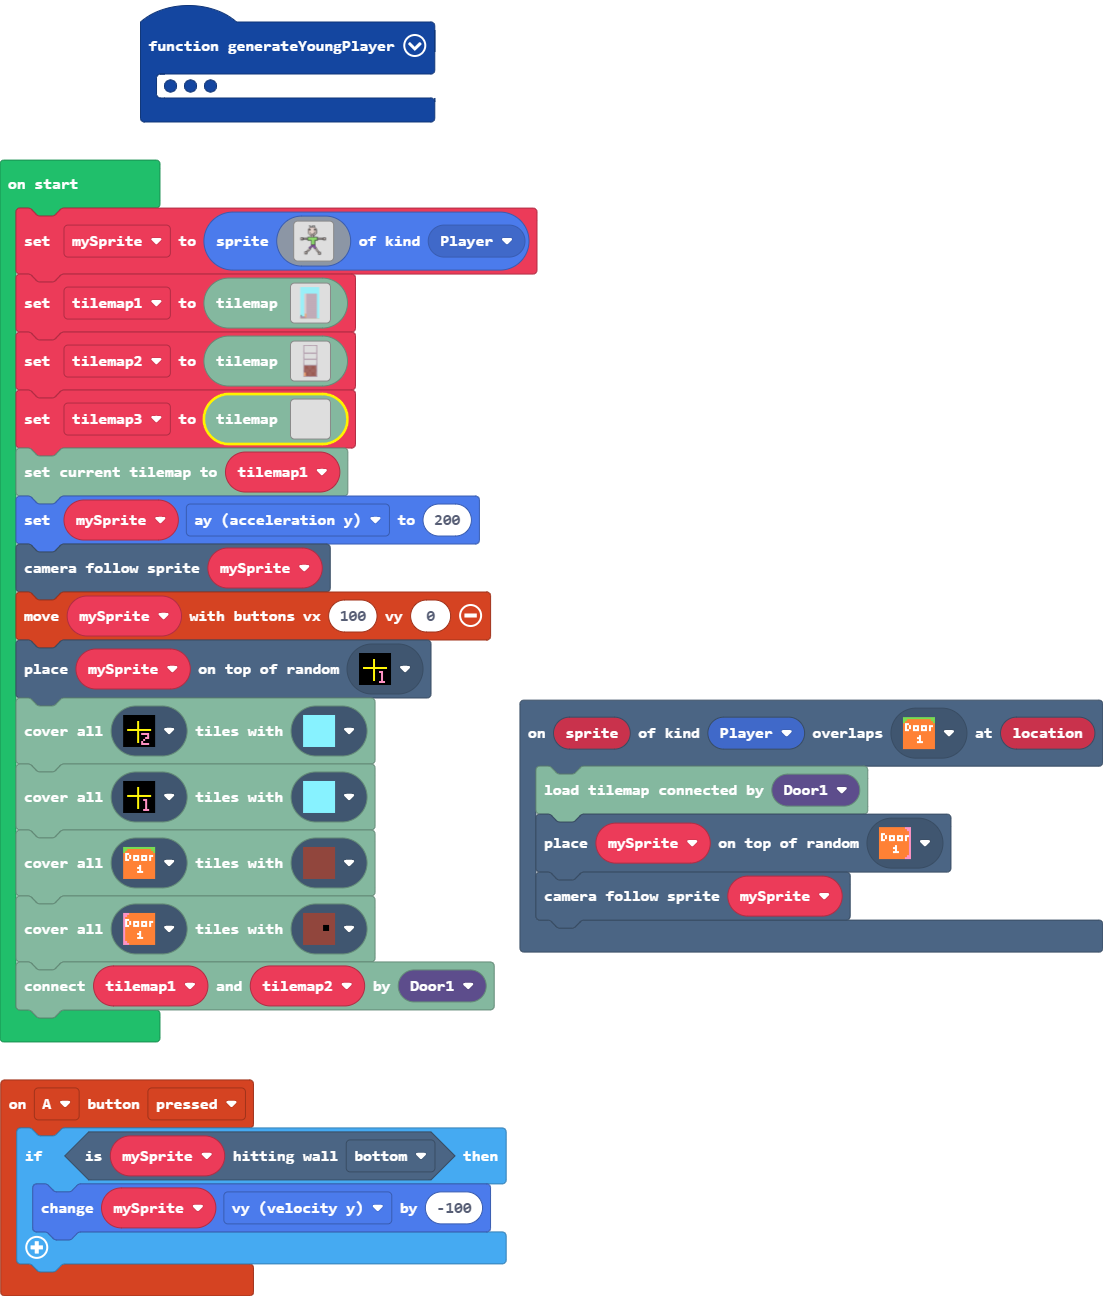
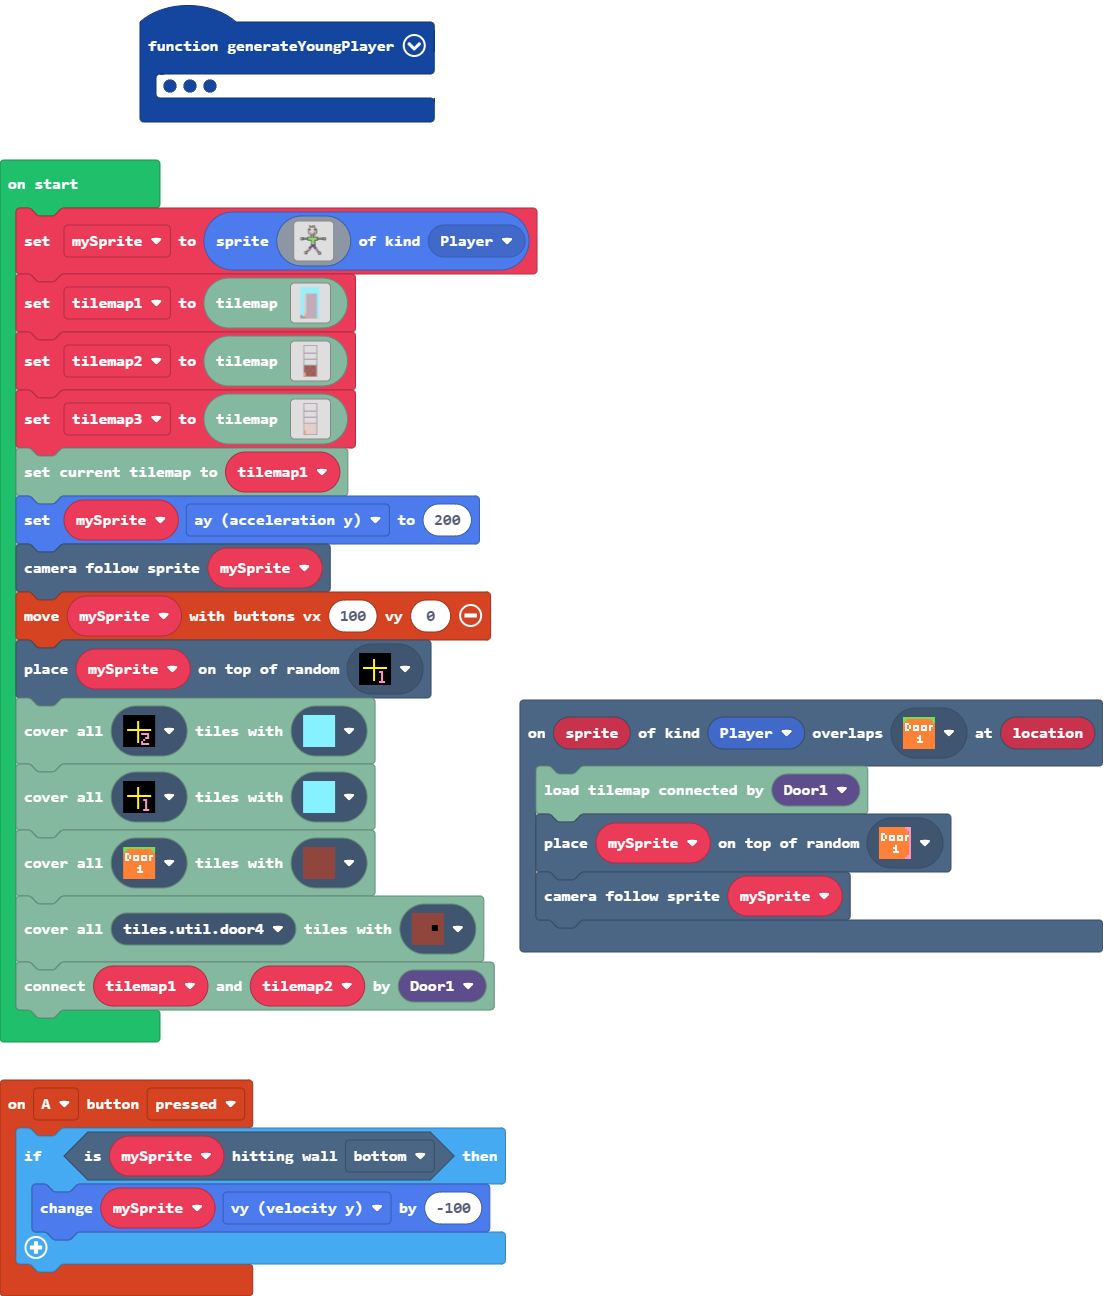
Update main.blocks, main.ts, tilemap.g.jres, tilemap.g.ts

diff --git a/tilemap.g.ts b/tilemap.g.ts
@@ -317,6 +317,103 @@ namespace myTiles {
 . . . . . . . . . . . . . . . . 
 . . . . . . . . . . . . . . . . 
 `, [myTiles.transparency16], TileScale.Sixteen);
+            case "level13":
+            case "level13":return tiles.createTilemap(hex`1000100000000000000000000000000000000000000000000000000000000000000000000000000000000000000000000000000000000000000000000000000000000000000000000000000000000000000000000000000000000000000000000000000000000000000000000000000000000000000000000000000000000000000000000000000000000000000000000000000000000000000000000000000000000000000000000000000000000000000000000000000000000000000000000000000000000000000000000000000000000000000000000000000000000000000000000000000000000000000000000000000000000000000000000000000000000000`, img`
+. . . . . . . . . . . . . . . . 
+. . . . . . . . . . . . . . . . 
+. . . . . . . . . . . . . . . . 
+. . . . . . . . . . . . . . . . 
+. . . . . . . . . . . . . . . . 
+. . . . . . . . . . . . . . . . 
+. . . . . . . . . . . . . . . . 
+. . . . . . . . . . . . . . . . 
+. . . . . . . . . . . . . . . . 
+. . . . . . . . . . . . . . . . 
+. . . . . . . . . . . . . . . . 
+. . . . . . . . . . . . . . . . 
+. . . . . . . . . . . . . . . . 
+. . . . . . . . . . . . . . . . 
+. . . . . . . . . . . . . . . . 
+. . . . . . . . . . . . . . . . 
+`, [myTiles.transparency16], TileScale.Sixteen);
+            case "level14":
+            case "level14":return tiles.createTilemap(hex`1000100000000000000000000000000000000000000000000000000000000000000000000000000000000000000000000000000000000000000000000000000000000000000000000000000000000000000000000000000000000000000000000000000000000000000000000000000000000000000000000000000000000000000000000000000000000000000000000000000000000000000000000000000000000000000000000000000000000000000000000000000000000000000000000000000000000000000000000000000000000000000000000000000000000000000000000000000000000000000000000000000000000000000000000000000000000000`, img`
+. . . . . . . . . . . . . . . . 
+. . . . . . . . . . . . . . . . 
+. . . . . . . . . . . . . . . . 
+. . . . . . . . . . . . . . . . 
+. . . . . . . . . . . . . . . . 
+. . . . . . . . . . . . . . . . 
+. . . . . . . . . . . . . . . . 
+. . . . . . . . . . . . . . . . 
+. . . . . . . . . . . . . . . . 
+. . . . . . . . . . . . . . . . 
+. . . . . . . . . . . . . . . . 
+. . . . . . . . . . . . . . . . 
+. . . . . . . . . . . . . . . . 
+. . . . . . . . . . . . . . . . 
+. . . . . . . . . . . . . . . . 
+. . . . . . . . . . . . . . . . 
+`, [myTiles.transparency16], TileScale.Sixteen);
+            case "level15":
+            case "level15":return tiles.createTilemap(hex`1000100000000000000000000000000000000000000000000000000000000000000000000000000000000000000000000000000000000000000000000000000000000000000000000000000000000000000000000000000000000000000000000000000000000000000000000000000000000000000000000000000000000000000000000000000000000000000000000000000000000000000000000000000000000000000000000000000000000000000000000000000000000000000000000000000000000000000000000000000000000000000000000000000000000000000000000000000000000000000000000000000000000000000000000000000000000000`, img`
+. . . . . . . . . . . . . . . . 
+. . . . . . . . . . . . . . . . 
+. . . . . . . . . . . . . . . . 
+. . . . . . . . . . . . . . . . 
+. . . . . . . . . . . . . . . . 
+. . . . . . . . . . . . . . . . 
+. . . . . . . . . . . . . . . . 
+. . . . . . . . . . . . . . . . 
+. . . . . . . . . . . . . . . . 
+. . . . . . . . . . . . . . . . 
+. . . . . . . . . . . . . . . . 
+. . . . . . . . . . . . . . . . 
+. . . . . . . . . . . . . . . . 
+. . . . . . . . . . . . . . . . 
+. . . . . . . . . . . . . . . . 
+. . . . . . . . . . . . . . . . 
+`, [myTiles.transparency16], TileScale.Sixteen);
+            case "level16":
+            case "level16":return tiles.createTilemap(hex`1000250003030303030303030303030303030303030000000000000000000000000000030300000000000000000000000000000303000000000000000000000000000003030000000000000000000000000000030300000000000000000000000000000303000000000000000000000000000003030000000000000000000000000000030300000000000000000000000000000303030303030303030303030303030303030000000000000000000000000000030300000000000000000000000000000303000000000000000000000000000003030000000000000000000000000000030300000000000000000000000000000303000000000000000000000000000003030303030303030303030303030303030300000000000000000000000000000303000000000000000000000000000003030000000000000000000000000000030300000000000000000000000000000303000000000000000000000000000003030000000000000000000000000000030303030303030303030303030303030303040404040404040404040404040403030404040404040404040404040404030304040404040404040404040404040303040404040404040404040404040403030404040404040404040404040404030304040404040404040404040404040303040404040404040404040404040403030404040404040404040404040404030302020404040404040404040404040303020104040404040404040404040403030202040404040404040404040404030302020404040404040404040404040303030303030303030303030303030303`, img`
+2222222222222222
+2..............2
+2..............2
+2..............2
+2..............2
+2..............2
+2..............2
+2..............2
+2..............2
+2222222222222222
+2..............2
+2..............2
+2..............2
+2..............2
+2..............2
+2..............2
+2222222222222222
+2..............2
+2..............2
+2..............2
+2..............2
+2..............2
+2..............2
+2222222222222222
+2..............2
+2..............2
+2..............2
+2..............2
+2..............2
+2..............2
+2..............2
+2..............2
+2..............2
+2..............2
+2..............2
+2..............2
+2222222222222222
+`, [myTiles.transparency16,tiles.util.door1,tiles.util.door5,sprites.dungeon.floorLight3,sprites.castle.tilePath5], TileScale.Sixteen);
         }
         return null;
     })

diff --git a/main.ts b/main.ts
@@ -116,7 +116,7 @@ mySprite = sprites.create(img`
     `, SpriteKind.Player)
 let tilemap1 = tiles.createMap(tilemap`level1`)
 let tilemap2 = tiles.createMap(tilemap`level2`)
-let tilemap3 = tiles.createMap(tilemap`level7`)
+let tilemap3 = tiles.createMap(tilemap`level16`)
 tiles.loadMap(tilemap1)
 mySprite.ay = 200
 scene.cameraFollowSprite(mySprite)
